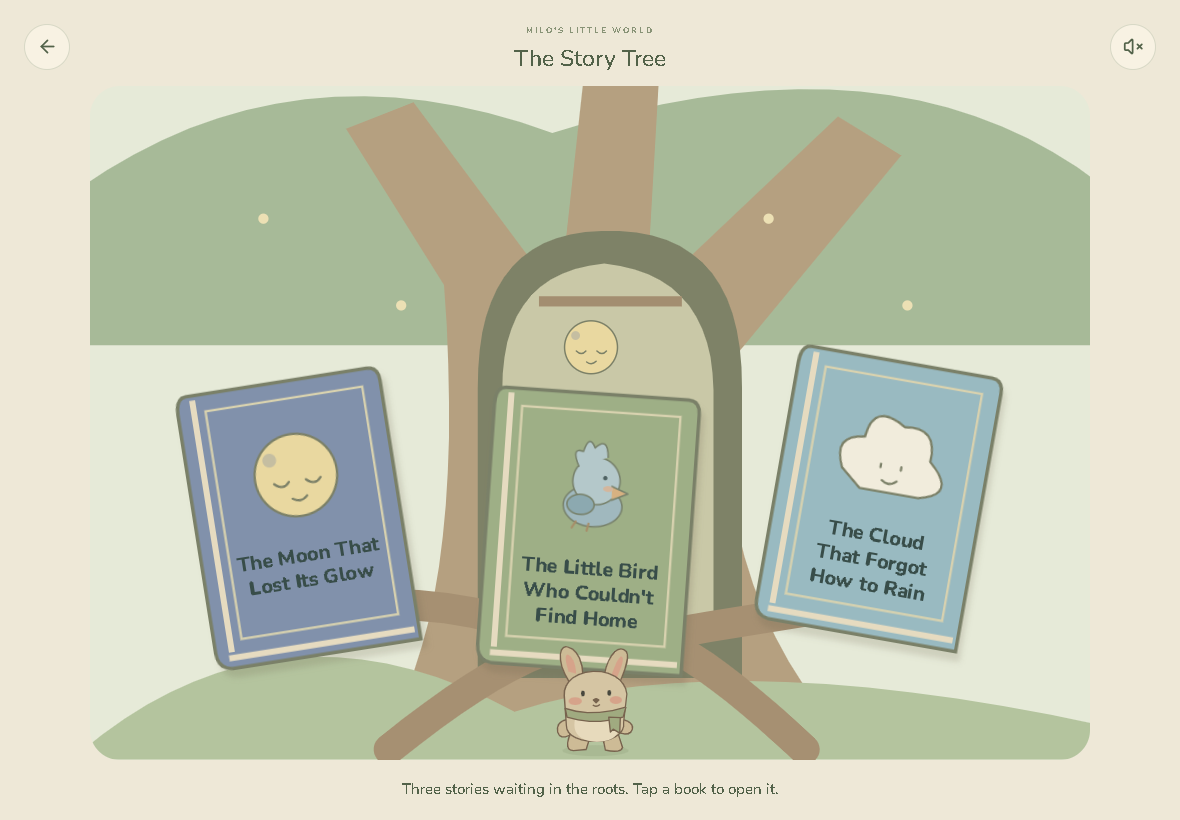
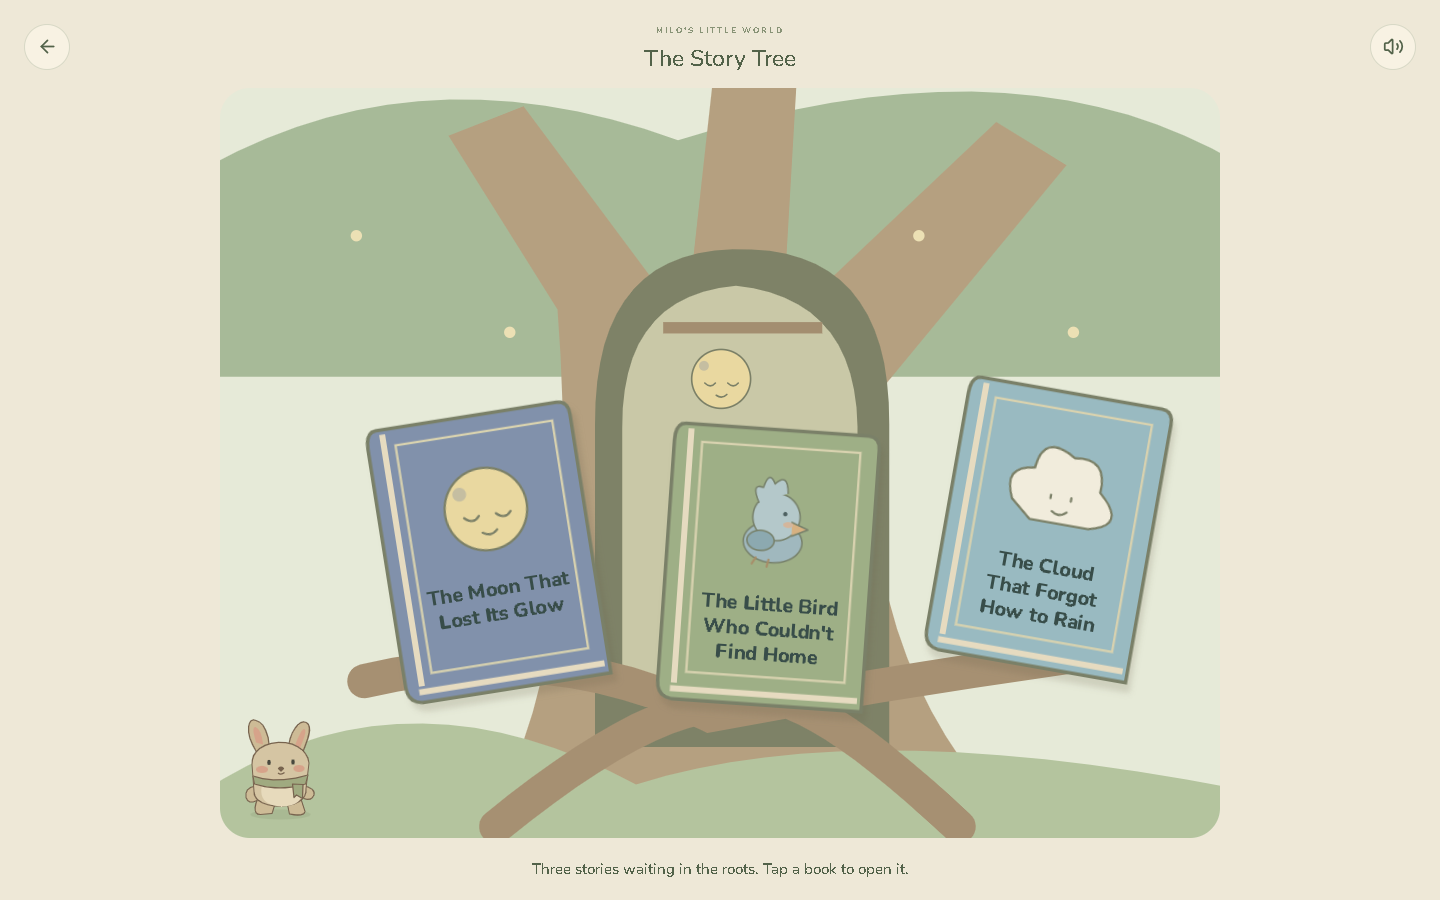
few more

diff --git a/src/story/story.css b/src/story/story.css
@@ -1,6 +1,6 @@
 .story-tree{height:100svh;min-height:0;display:flex;flex-direction:column;overflow:hidden;background:#eee8d7;color:#526249;padding-bottom:env(safe-area-inset-bottom)}
 .story-header{display:flex;align-items:center;gap:14px;padding:16px 24px 8px;flex-shrink:0}.story-header>div{flex:1;text-align:center;min-width:0}.story-header span{font-size:8px;font-weight:800;letter-spacing:2px;color:#889376}.story-header h1{font-size:23px;line-height:1.3;margin:4px 0;overflow-wrap:anywhere}.story-header .round-button{flex-shrink:0;background:#f8f2e3}
-.story-library{position:relative;flex:1;min-height:250px;width:min(100%,1000px);max-height:750px;margin:auto;overflow:hidden;border-radius:30px}.library-tree{position:absolute;width:100%;height:100%;inset:0}.physical-book{position:absolute;top:42%;width:23%;max-width:220px;padding:0;background:none;border:0;filter:drop-shadow(4px 8px 3px #685f4930);touch-action:manipulation}.physical-book.book-moon{left:10%;rotate:-9deg}.physical-book.book-bird{left:39%;top:44%;rotate:4deg}.physical-book.book-cloud{left:68%;top:39%;rotate:10deg}.physical-book:focus-visible{outline:3px dashed #f3e1aa;outline-offset:5px}.story-book-cover{width:100%;display:block}.book-cover-title{font-size:17px;line-height:1.25;text-align:center;color:#384d49;font-weight:800}.book-keepsake{position:absolute;width:38%;right:-12%;bottom:-8%;filter:drop-shadow(1px 2px 2px #73634930)}.library-milo{position:absolute;width:11%;left:45%;bottom:0}.library-invitation{text-align:center;font-size:15px;padding:18px 15px 20px;flex-shrink:0}
+.story-library{position:relative;flex:1;min-height:250px;width:min(100%,1000px);max-height:750px;margin:auto;overflow:hidden;border-radius:30px}.library-tree{position:absolute;width:100%;height:100%;inset:0}.physical-book{position:absolute;top:42%;width:22%;max-width:220px;padding:0;background:none;border:0;filter:drop-shadow(4px 8px 3px #685f4930);touch-action:manipulation}.physical-book.book-moon{left:16%;rotate:-9deg}.physical-book.book-bird{left:44%;top:44%;rotate:4deg}.physical-book.book-cloud{left:72%;top:39%;rotate:10deg}.physical-book:focus-visible{outline:3px dashed #f3e1aa;outline-offset:5px}.story-book-cover{width:100%;display:block}.book-cover-title{font-size:17px;line-height:1.25;text-align:center;color:#384d49;font-weight:800}.book-keepsake{position:absolute;width:38%;right:-12%;bottom:-8%;filter:drop-shadow(1px 2px 2px #73634930)}.library-milo{position:absolute;width:10%;left:1%;bottom:2%;pointer-events:none}.library-invitation{text-align:center;font-size:15px;padding:18px 15px 20px;flex-shrink:0}
 .story-reader{flex:1;min-height:0;display:flex;flex-direction:column;max-width:1080px;width:100%;margin:0 auto;animation:storybook-open .22s ease-out!important;transform-origin:20% 50%}.story-chapter{display:flex;align-items:center;gap:10px;padding:5px 20px;flex-shrink:0}.story-chapter h2{font-size:18px;font-weight:700;flex:1;text-align:right}.story-chapter .text-button{min-height:40px;font-size:13px}.story-play-area{min-height:0;flex:1;overflow-y:auto;overflow-x:hidden;padding:0 18px 8px;display:flex;flex-direction:column;justify-content:center}.storybook-scene{width:100%;min-height:200px;max-height:100%;flex:1;display:block;overflow:visible;touch-action:manipulation}.story-object{cursor:pointer;outline:none}.story-object:focus-visible>rect{stroke:#e6ca80;stroke-width:5}.story-object[aria-disabled=true]{cursor:default}.story-drop{touch-action:none}.story-actions{display:flex;justify-content:center;flex-wrap:wrap;gap:8px;flex-shrink:0;margin:10px 0 3px}.story-actions .play-action{min-height:44px}.story-small-clue{text-align:center;margin:7px 8px;font-size:15px;color:#56684c;flex-shrink:0}.direction-memory{font-weight:800;letter-spacing:1px}
 .story-dialogue{display:flex;align-items:center;gap:13px;background:#faf5e7;border:1px solid #d6d5bb;border-radius:23px 23px 23px 7px;margin:6px 20px 17px;padding:14px 18px;flex-shrink:0;max-height:32svh;overflow:auto}.story-dialogue>div{flex:1;min-width:0}.story-dialogue span{font-size:8px;letter-spacing:2px;font-weight:800;color:#80916c}.story-dialogue p{font-size:17px;line-height:1.45;margin-top:4px}.story-dialogue>.round-button{flex-shrink:0}.story-next{display:flex;align-items:center;justify-content:center;gap:8px;flex-shrink:0}.story-moon .story-dialogue{background:#eee9df}.story-moon .story-play-area{background:#e6e3dc;border-radius:20px}
 @keyframes storybook-open{from{opacity:.65;transform:perspective(1200px) rotateY(-8deg)}to{opacity:1;transform:perspective(1200px) rotateY(0deg)}}

diff --git a/src/audio/MiloVoice.ts b/src/audio/MiloVoice.ts
@@ -1,7 +1,7 @@
 import { miloAudioFiles } from './miloAudioFiles'
 
 export type MiloLine = { id: string; text: string }
-export const MILO_VOICE_SETTINGS = { pitch: 1.8, rate: 1.8, volume: .9 } as const
+export const MILO_VOICE_SETTINGS = { pitch: 1.8, rate: 1.5, volume: .9 } as const
 
 /** Browsers expose names/languages, not age, gender or softness. Prefer familiar gentle English voices. */
 export function selectMiloVoice(voices: SpeechSynthesisVoice[]): SpeechSynthesisVoice | undefined {
